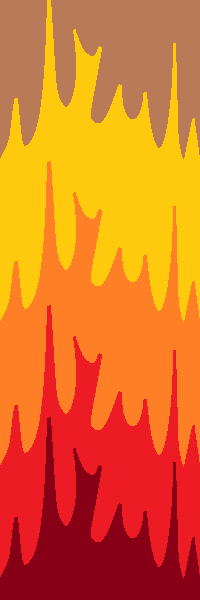
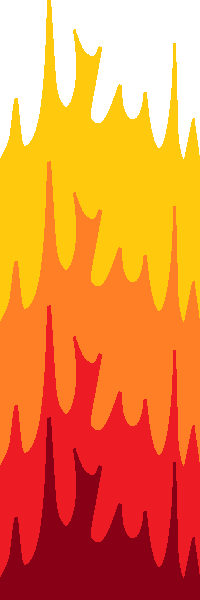
transparent panel background

Changed region(s): [[0.0, 0.0, 1.0, 0.27]]

diff --git a/src/localClient/grafika/grafikaModes/settings/SettingsCenterPanel.java b/src/localClient/grafika/grafikaModes/settings/SettingsCenterPanel.java
@@ -4,11 +4,8 @@ import localClient.Dati;
 import localClient.grafika.Button;
 import localClient.grafika.grafikaParts.CenterPanel;
 import localClient.grafika.grafikaParts.SampleLayout;
-import localClient.grafika.grafikaParts.SamplePanel;
 
 import java.awt.*;
-import java.util.ArrayList;
-import java.util.HashMap;
 
 public class SettingsCenterPanel extends CenterPanel {
 
@@ -35,8 +32,8 @@ public class SettingsCenterPanel extends CenterPanel {
 
         clearButtons();
 
-        buttonDetails.add(new Button.ButtonDetails(1, "Brown/green", 3));
-        buttonDetails.add(new Button.ButtonDetails(2, "Blue", 0));
+        buttonDetails.add(new Button.ButtonDetails(1, "Brown", 2));
+        buttonDetails.add(new Button.ButtonDetails(2, "Blue", 2));
         buttonDetails.add(new Button.ButtonDetails(3, "Red", -2));
         buttonDetails.add(new Button.ButtonDetails(4, "Load settings", 10));
         buttonDetails.add(new Button.ButtonDetails(5, "Save settings", 8));

diff --git a/src/server/calculations/CalculationsThread.java b/src/server/calculations/CalculationsThread.java
@@ -8,7 +8,7 @@ public class CalculationsThread implements Runnable {
 	private static final String threadName = "CalculationsThread",
 			consoleOut = threadName + ": ";
 
-	public static boolean running = false, pauze = false;//, patsStarts=true;
+	public static boolean running = false, pauze = true;//, patsStarts=true;
 	public static CalculationTimeCalculator calculationTimeCalculator = new CalculationTimeCalculator();
 
 	public CalculationsThread(){
@@ -26,7 +26,7 @@ public class CalculationsThread implements Runnable {
 
 			calculationTimeCalculator.time(false);
 			try{
-				Thread.sleep(50 + calculationTimeCalculator.sleepT());
+				Thread.sleep(calculationTimeCalculator.sleepT());
 			}catch (Exception e){
 				e.printStackTrace();
 			}
